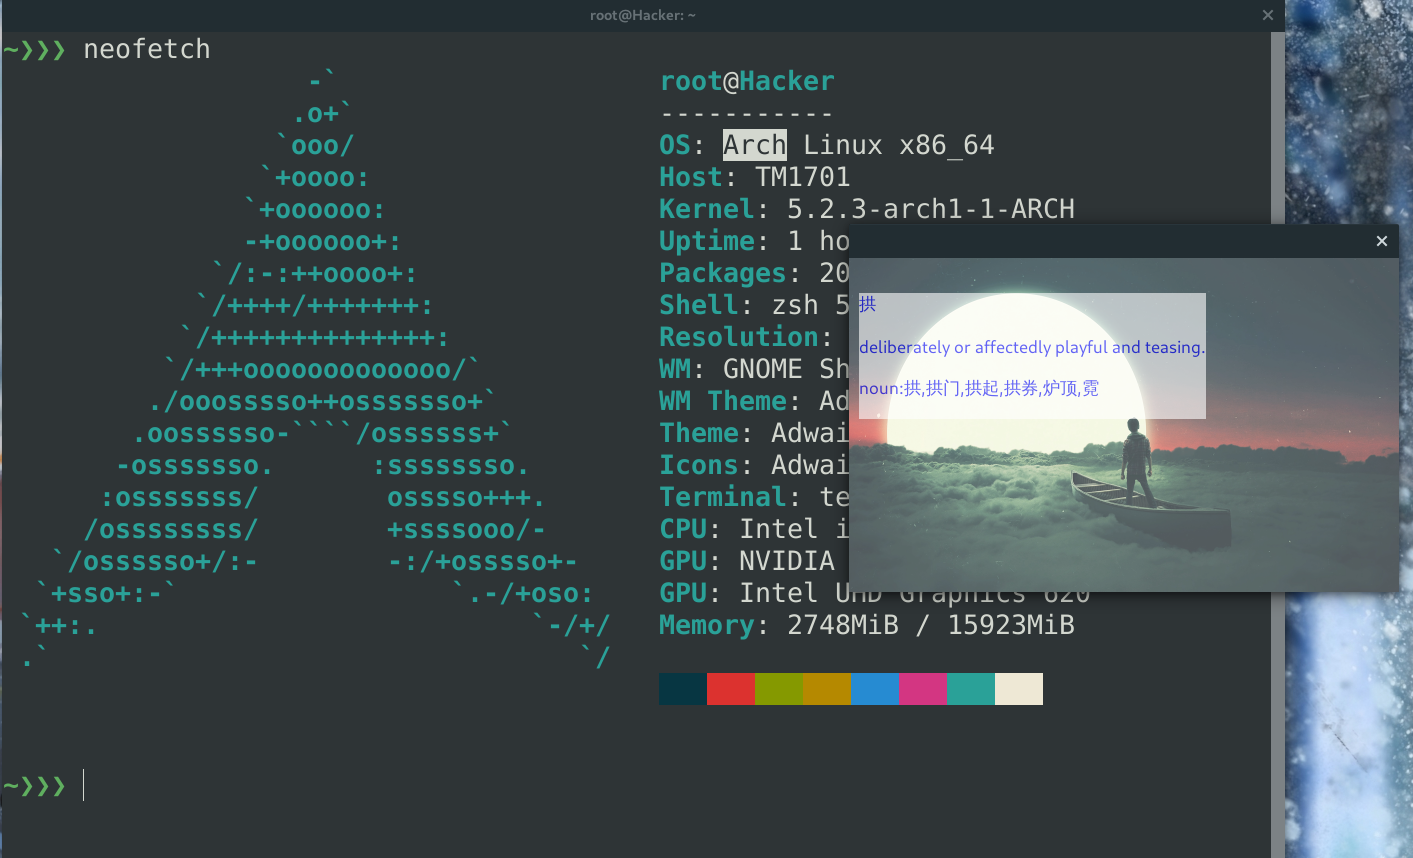
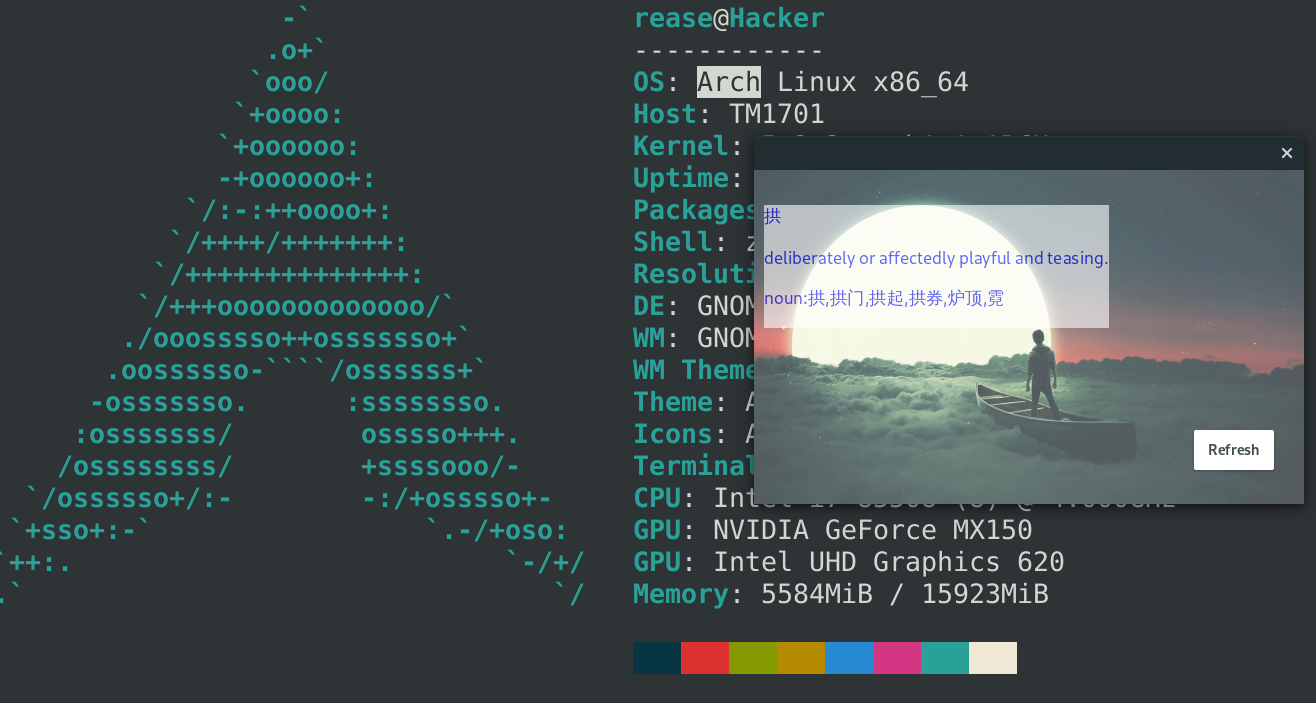
更新说明

diff --git a/readme.md b/readme.md
@@ -3,7 +3,13 @@
 1. 屏幕取词翻译 -- 英译中
    
    ![img](./gif_pic/iconEntry.png)<br><br>
-   ![img](./gif_pic/GUI.png)
+   ![img](./gif_pic/GUI.png) 
+
+### refresh 键功能说明: 
+* 因为优化了三击取词的准确性后，降低了双击取词的速度，影响了体验，故增加一个刷新键，从双击到三击的过渡，如果先选中了单个词，则界面先对单词进行翻译呈现，按刷新键后才弹出3击所选中的句子或段落。 
+ 
+* 当然，还是有可能直接就三击选中了段落或句子的。
+
 
 ## (二). 后期预计完成功能
 1. 中英互译
@@ -33,7 +39,7 @@
 
 # 三. 程序运行与停止
 1. 运行**先决条件** <br>
-     * **安装这个项目 https://github.com/poemdistance/google-translate 上的在线翻译程序**，其安装使用等相关事项见项目根目录的README. 确保此翻译程序能正常运行。<br><br>
+     * **安装这个项目 https://github.com/poemdistance/google-translate 上的在线翻译程序**，其安装使用等相关事项见项目根目录的README. 确保此翻译程序能正常运行。另外，一般情况下，谷歌翻译爬虫项目会跟屏幕取词翻译同步更新，想要更新任何一个的话，两边都git pull一下。<br><br>
      * **NOTE**: **电脑如果安装了wayland，需要禁用**，不然终端中无法正常使用xdotool,方法如下：<br>
         *  打开/etc/gdm/custom.conf
            添加如下两行(完成后需要重启)
